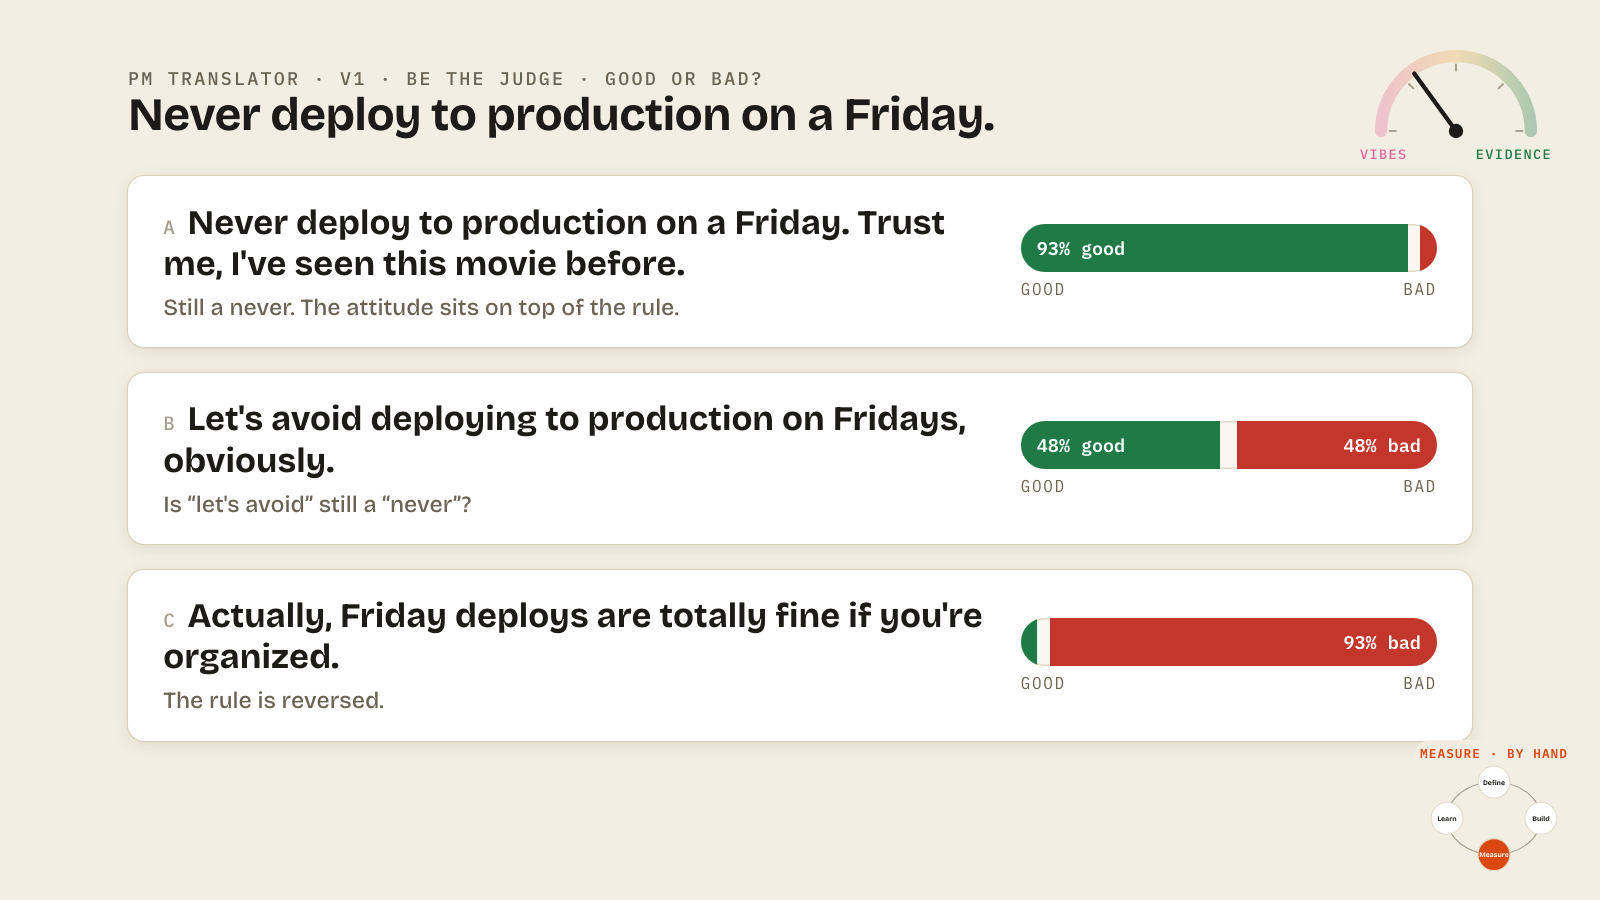
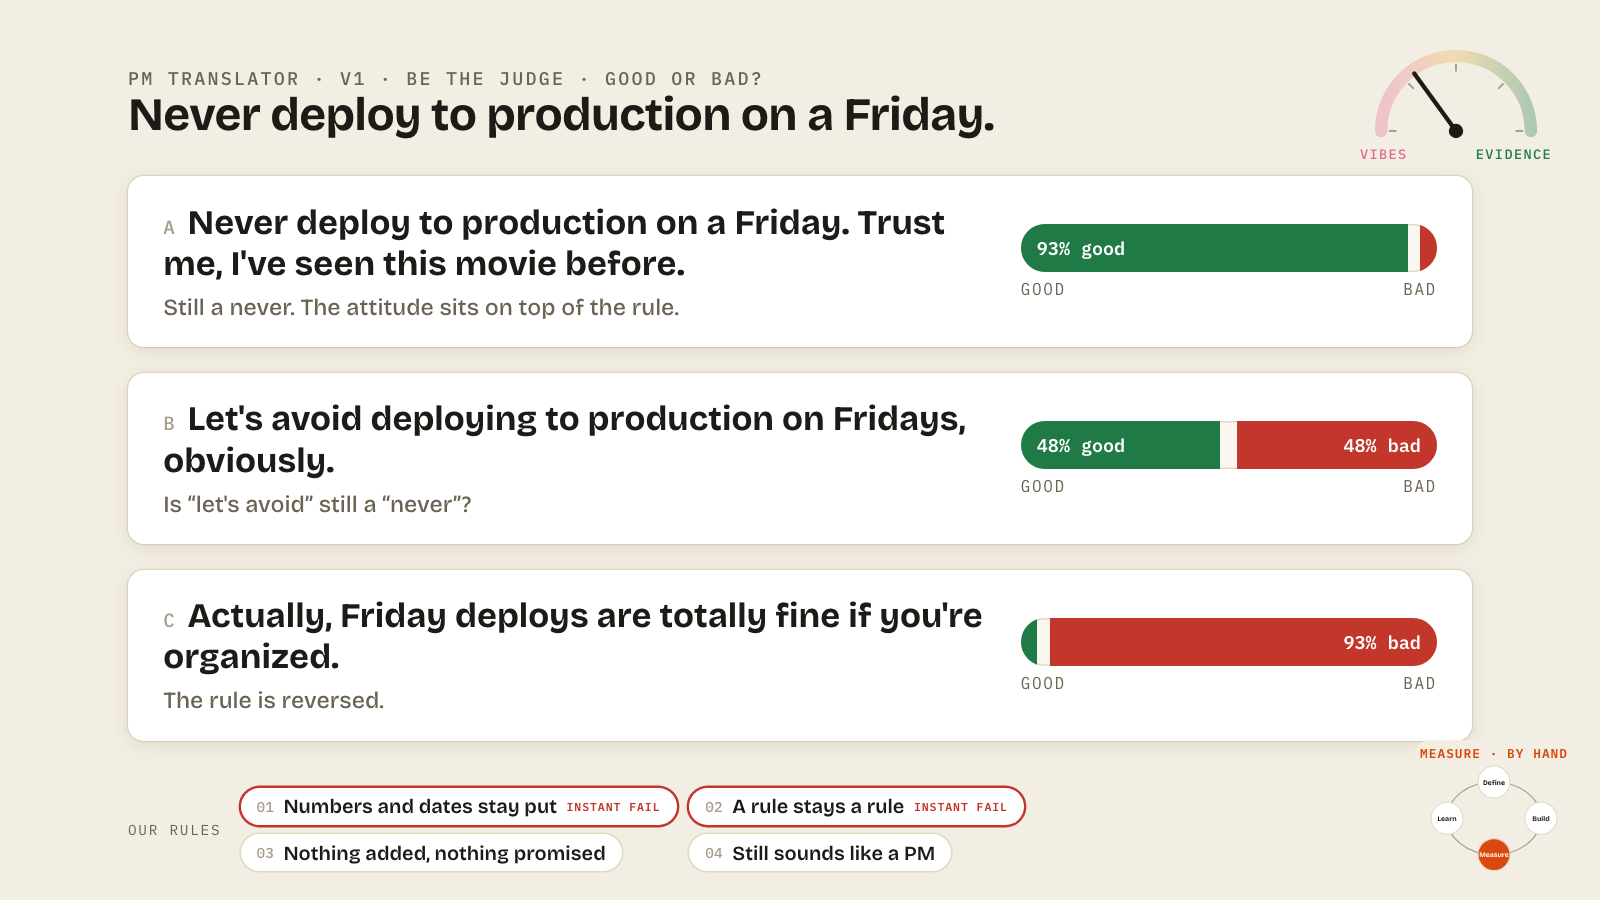
Golden samples, and the room's rules kept on screen while we mark
- "Golden examples" becomes "golden samples" on the slides, in the lines and in the README,
  matching how Trevor says it
- 2.3 shows the four rules along the bottom (the two instant fails on top), so marking the
  answers doesn't need the rules re-listed

Changed region(s): [[0.0938, 0.8711, 0.6562, 0.9956]]

diff --git a/src/talk/content.ts b/src/talk/content.ts
@@ -114,9 +114,9 @@ export type JudgeKind = "rule" | "ai" | "people";
  *  plain code that only checks a number is still there, so it passes "2 weeks" (3.3 shows why that matters). */
 export const JUDGES: { id: string; kind: JudgeKind; check: string }[] = [
   { id: "numbers", kind: "rule", check: "Rule 01, the cheap way: is there still a number?" },
-  { id: "rule", kind: "ai", check: "An AI reads our rule and our golden examples" },
-  { id: "scope", kind: "ai", check: "An AI reads our rule and our golden examples" },
-  { id: "voice", kind: "ai", check: "An AI reads our rule and our golden examples" },
+  { id: "rule", kind: "ai", check: "An AI reads our rule and our golden samples" },
+  { id: "scope", kind: "ai", check: "An AI reads our rule and our golden samples" },
+  { id: "voice", kind: "ai", check: "An AI reads our rule and our golden samples" },
   { id: "room", kind: "people", check: "For the borderline ones, like “let's avoid” vs “never”" },
 ];
 export const KIND_LABEL: Record<JudgeKind, string> = { rule: "Code test", ai: "AI judge", people: "Human feedback" };
@@ -380,7 +380,7 @@ export const BEATS: Beat[] = [
   {
     id: "wall", num: "2.5", title: "The golden wall", movement: 2, kind: "wall", needle: "corner", loop: "measure",
     steps: [
-      { say: "“So what we've just done has a name: golden examples. Real answers, marked by people who know the work, with their reasoning. Your three go up first.”", needle: 34 },
+      { say: "“So what we've just done has a name: golden samples. Real answers, marked by people who know the work, with their reasoning. Your three go up first.”", needle: 34 },
       { say: "“And we keep doing this with experts across the business.” The rest arrive. “And notice which column's biggest. Defining bad matters more than defining good: we can't write every rule down for a non-deterministic system. We'd be describing the whole universe. We're looking for the clear edges, where it tips into things we don't accept.” Don't point out the tech-debt card: 4.1 comes back to it.", needle: 38 },
       { say: "“Good examples show the PM Translator what to copy. The bad ones, and especially their reasons, show it what to avoid. And the reason is the important bit. ‘Four weeks became two’ tells us why it's bad. That human judgement, from the people who know the work, is what we want to build into the system over time. We've got twelve here; in your real products, you'll want hundreds, or thousands. The more, the better.”" },
     ],
@@ -429,7 +429,7 @@ export const BEATS: Beat[] = [
     id: "expose", num: "4.1", title: "A judge that's wrong", movement: 4, kind: "expose", needle: "corner",
     steps: [
       { say: "“So let's take some of our engineering release notes, and run them through our judges. ‘The release is delayed so we can pay down tech debt.’ Not something you hear a PM say very often! It's passed most of our judges, but it's failed ‘nothing added’, for waving work away as tech debt.”", needle: 56 },
-      { say: "“So why did it fail? When we built this judge, we gave it golden examples, and some of them, like this one down the bottom, were PMs waving work away as tech debt. So the judge learned the words, not the idea; we baked it in. But here, paying down tech debt is the real reason for the delay. Maybe the most honest thing our PM Translator has said all day.” The answer stays; the wall card and the judge's prompt appear under it." },
+      { say: "“So why did it fail? When we built this judge, we gave it golden samples, and some of them, like this one down the bottom, were PMs waving work away as tech debt. So the judge learned the words, not the idea; we baked it in. But here, paying down tech debt is the real reason for the delay. Maybe the most honest thing our PM Translator has said all day.” The answer stays; the wall card and the judge's prompt appear under it." },
       { say: "“So the judge here is actually wrong, and that matters. If we'd trusted it, we'd have changed the prompt just to please a broken judge, and been chasing our tail. So check the judge first, then fix the prompt.”", needle: 60 },
     ],
   },
@@ -474,7 +474,7 @@ export const BEATS: Beat[] = [
     id: "recap", num: "5.3", title: "Recap: the whole loop, connected", movement: 5, kind: "chapter", needle: "hidden",
     props: { mode: "lap" },
     steps: [
-      { say: "“So now we've got the whole loop connected. We defined what good looks like: our rules, and golden examples with the reasons why.”" },
+      { say: "“So now we've got the whole loop connected. We defined what good looks like: our rules, and golden samples with the reasons why.”" },
       { say: "“We built the PM Translator, through a few iterations.”" },
       { say: "“We measured every answer, with code tests, AI judges and human feedback.”" },
       { say: "“And we learned: fix the judge first, then the prompt. Define, build, measure, learn: the whole loop, connected.” The last arrow closes the loop." },

diff --git a/src/talk/beats.tsx b/src/talk/beats.tsx
@@ -491,7 +491,7 @@ function ChapterView({ beat, step }: P) {
       );
     // lap: the end-of-talk recap, one station per press, the loop closing on the last.
     const rows: [string, ReactNode][] = [
-      ["Define", "Our rules, and golden examples with the reasons why"],
+      ["Define", "Our rules, and golden samples with the reasons why"],
       ["Build", <>The PM Translator: the <Tag kind="prompt" />, v1 → v3</>],
       ["Measure", "Every answer: code tests, AI judges, human feedback"],
       [
@@ -604,6 +604,16 @@ function VoteView({ step, state }: P) {
             ),
         )}
       </div>
+      {/* The room's rules from 2.2, kept on screen so the marking has something to mark against. */}
+      <div className="vote-rules a-fade" style={d(0.4)} data-box="rules">
+        <span className="vr-label">Our rules</span>
+        {[0, 1, 2, 3].map((i) => (
+          <span key={i} className={`vr-rule ${i < 2 ? "hard" : ""}`}>
+            <b>{String(i + 1).padStart(2, "0")}</b> {ruleText(state, i)}
+            {i < 2 && <i>Instant fail</i>}
+          </span>
+        ))}
+      </div>
     </>
   );
 }
@@ -667,7 +677,7 @@ function WallView({ step, state }: P) {
   return (
     <>
       <div className="counter" data-box="counter">
-        Golden examples · {step >= 1 ? <Count from={3} to={total} over={2.8} delay={0.2} /> : 3} marked
+        Golden samples · {step >= 1 ? <Count from={3} to={total} over={2.8} delay={0.2} /> : 3} marked
       </div>
       {step >= 2 && (
         <div className="wall-caption t-s t-accent a-rise" data-box="caption">

diff --git a/src/talk/talk.css b/src/talk/talk.css
@@ -607,3 +607,13 @@ button, input, textarea { font: inherit; color: inherit; }
 .chapter.lap .recap-row { grid-template-columns: 9.5cqw 1fr; font-size: 1.85cqw; }
 .chapter.lap .recap-row .nowrap { display: block; white-space: nowrap; }
 .chapter.lap .recap-row .nowrap + .nowrap { margin-top: 0.5cqw; }
+
+/* 2.3: the room's rules, kept along the bottom while we mark. */
+.vote-rules { position: absolute; left: 8cqw; right: 14cqw; bottom: 1.8cqw; display: grid; grid-template-columns: auto minmax(0, max-content) minmax(0, max-content); justify-content: start; align-items: center; gap: 0.6cqw 0.8cqw; white-space: nowrap; }
+.vote-rules .vr-label { grid-row: span 2; align-self: center; }
+.vr-rule { max-width: 100%; overflow: hidden; text-overflow: ellipsis; }
+.vr-label { font-family: var(--mono); font-size: 0.9cqw; letter-spacing: 0.12em; text-transform: uppercase; color: var(--muted); margin-right: 0.4cqw; }
+.vr-rule { display: inline-flex; justify-self: start; align-items: center; gap: 0.6cqw; background: var(--card); border-radius: 99cqw; box-shadow: 0 0 0 0.1cqw var(--edge); padding: 0.4cqw 1cqw; font-size: 1.25cqw; font-weight: 600; }
+.vr-rule b { font-family: var(--mono); font-size: 0.9cqw; font-weight: 500; color: var(--faint); }
+.vr-rule.hard { box-shadow: 0 0 0 0.15cqw var(--fail); }
+.vr-rule i { font-style: normal; font-family: var(--mono); font-size: 0.72cqw; font-weight: 600; letter-spacing: 0.08em; text-transform: uppercase; color: var(--fail); }

diff --git a/docs/talk-track.md b/docs/talk-track.md
@@ -98,7 +98,7 @@ Each numbered line is one press of → (or the clicker). Quoted words are what t
 
 ### 2.5 · The golden wall
 
-1. “So what we've just done has a name: golden examples. Real answers, marked by people who know the work, with their reasoning. Your three go up first.”
+1. “So what we've just done has a name: golden samples. Real answers, marked by people who know the work, with their reasoning. Your three go up first.”
 2. “And we keep doing this with experts across the business.” The rest arrive. “And notice which column's biggest. Defining bad matters more than defining good: we can't write every rule down for a non-deterministic system. We'd be describing the whole universe. We're looking for the clear edges, where it tips into things we don't accept.” Don't point out the tech-debt card: 4.1 comes back to it.
 3. “Good examples show the PM Translator what to copy. The bad ones, and especially their reasons, show it what to avoid. And the reason is the important bit. ‘Four weeks became two’ tells us why it's bad. That human judgement, from the people who know the work, is what we want to build into the system over time. We've got twelve here; in your real products, you'll want hundreds, or thousands. The more, the better.”
 
@@ -137,7 +137,7 @@ Each numbered line is one press of → (or the clicker). Quoted words are what t
 ### 4.1 · A judge that's wrong
 
 1. “So let's take some of our engineering release notes, and run them through our judges. ‘The release is delayed so we can pay down tech debt.’ Not something you hear a PM say very often! It's passed most of our judges, but it's failed ‘nothing added’, for waving work away as tech debt.”
-2. “So why did it fail? When we built this judge, we gave it golden examples, and some of them, like this one down the bottom, were PMs waving work away as tech debt. So the judge learned the words, not the idea; we baked it in. But here, paying down tech debt is the real reason for the delay. Maybe the most honest thing our PM Translator has said all day.” The answer stays; the wall card and the judge's prompt appear under it.
+2. “So why did it fail? When we built this judge, we gave it golden samples, and some of them, like this one down the bottom, were PMs waving work away as tech debt. So the judge learned the words, not the idea; we baked it in. But here, paying down tech debt is the real reason for the delay. Maybe the most honest thing our PM Translator has said all day.” The answer stays; the wall card and the judge's prompt appear under it.
 3. “So the judge here is actually wrong, and that matters. If we'd trusted it, we'd have changed the prompt just to please a broken judge, and been chasing our tail. So check the judge first, then fix the prompt.”
 
 ### 4.2 · Reviews: a category and a reason, then sort
@@ -171,7 +171,7 @@ Each numbered line is one press of → (or the clicker). Quoted words are what t
 
 ### 5.3 · Recap: the whole loop, connected
 
-1. “So now we've got the whole loop connected. We defined what good looks like: our rules, and golden examples with the reasons why.”
+1. “So now we've got the whole loop connected. We defined what good looks like: our rules, and golden samples with the reasons why.”
 2. “We built the PM Translator, through a few iterations.”
 3. “We measured every answer, with code tests, AI judges and human feedback.”
 4. “And we learned: fix the judge first, then the prompt. Define, build, measure, learn: the whole loop, connected.” The last arrow closes the loop.

diff --git a/README.md b/README.md
@@ -22,7 +22,7 @@ The same notice, same prompt, five tries gives five different answers. So passin
 
 ### 2 · Say what good is
 
-The room writes the rules (Define), then becomes the judge and marks three answers (Measure). The soft ones split the room: does “let's avoid” still mean “never”? That's a human call, and it's why a reason matters. The marked answers become the golden examples.
+The room writes the rules (Define), then becomes the judge and marks three answers (Measure). The soft ones split the room: does “let's avoid” still mean “never”? That's a human call, and it's why a reason matters. The marked answers become the golden samples.
 
 | | |
 | --- | --- |
